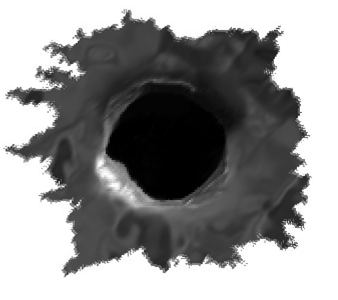
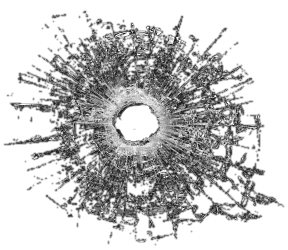
Deletes problematic bullethole pngs. Adds randomization to bulletholes. Refactors scenes to enable access to dddice client.

diff --git a/overlay/playbooks/gunslinger.ts b/overlay/playbooks/gunslinger.ts
@@ -3,14 +3,11 @@ import { OverlayScene } from "../scenes/overlay";
 
 
 export function loadGunslingerContent(scene: OverlayScene){
-    scene.load.bitmapFont("traffic-white","assets/fonts/bmfs/BostonTraffic/BostonTraffic.png", "assets/fonts/bmfs/BostonTraffic/BostonTraffic.xml");
-    scene.load.image("solidArrow", "assets/images/up-arrow.png");
-    scene.load.image("exchangeArrows", "assets/images/exchange.png");
 
-    scene.load.image("bh1", "assets/images/bh1.png");
     scene.load.image("bh2", "assets/images/bh2.png");
     scene.load.image("bh3", "assets/images/bh3.png");
     scene.load.image("bh4", "assets/images/bh4.png");
+    scene.load.image("bh5", "assets/images/bh5.png");
 
     scene.load.image("blastRune", "assets/images/blast.svg");
     scene.load.image("bleedRune", "assets/images/bleed.svg");
@@ -25,21 +22,29 @@ export function loadGunslingerContent(scene: OverlayScene){
 export function playGunshotsAnimation(scene: OverlayScene, shots: {rune: string, hit: boolean}[]){
 
     const rng = new Phaser.Math.RandomDataGenerator();
-    const bulletholes = ["bh1", "bh2", "bh3", "bh4"];
+    const bulletholes = ["bh2", "bh3", "bh4", "bh5"];
+    const bhScaleMap = new Map<string, number>();
+    bhScaleMap.set("bh5", 1);
+    bhScaleMap.set("bh4", 1);
     let delay = 0;
-    let delta = 200;
-    for (const shot of shots) {
-        console.log(shot);
+    let delta = 100;
+    let disappearDelay = 2000;
+    for (const shot of shots){
+        // console.log(x);
         scene.time.delayedCall(delay, () => {
-            // if (shot.hit){
+            if (shot.hit){
                 const bulletHole = bulletholes[Math.floor(Math.random()*bulletholes.length)];
                 console.log(bulletHole);
                 const randX = rng.between((scene.game.config.width as number) * 1/5, (scene.game.config.width as number) * 4/5);
                 const randY = rng.between((scene.game.config.height as number) * 1/5, (scene.game.config.height as number) * 4/5);
-                console.log([randX, randY]);
                 const tmp_bh = scene.add.sprite(randX, randY, bulletHole);
-                scene.time.delayedCall(2000, () => { tmp_bh.destroy()})        
-            // }
+                tmp_bh.setScale( bhScaleMap.get(bulletHole) || 3 );
+                tmp_bh.setAngle(Phaser.Math.Between(0,359));
+                
+                scene.time.delayedCall(disappearDelay, () => { 
+                    tmp_bh.destroy();
+                })        
+            }
         },[],scene);
         delay += delta;
     }

diff --git a/overlay/scenes/overlay.ts b/overlay/scenes/overlay.ts
@@ -3,8 +3,10 @@ import { room } from "../src/colyseus";
 import { EMessageTypes, IBaseMsg, IPlayAnimationMsg, IPlayGunshotAnimationMsg, IPlayRollSwapMsg } from "../../common/messageFormat";
 import { loadTacticianContent, playSwapAnimation } from "../playbooks/tactician";
 import { loadGunslingerContent, playGunshotsAnimation } from "../playbooks/gunslinger";
-import { DiceEvent, IApiResponse, IRoll, ThreeDDiceRollEvent } from "dddice-js";
+import { DiceEvent, IApiResponse, IRoll, ThreeDDice, ThreeDDiceRollEvent } from "dddice-js";
 export class OverlayScene extends Scene {
+
+    dddice: ThreeDDice;
 
 
     width: number;
@@ -27,6 +29,12 @@ export class OverlayScene extends Scene {
 
     constructor(){
         super({key: "overlay"})
+    }
+
+    init(diceClient: ThreeDDice){
+        this.dddice = diceClient;
+        console.log(this.dddice.apiKey);
+        console.log("overlay init fn");
     }
 
     preload(){
@@ -68,8 +76,12 @@ export class OverlayScene extends Scene {
         })
 
         room.onMessage(EMessageTypes.playGunshotAnimation, (msg: IPlayGunshotAnimationMsg) => {
-            console.log(msg);
-            playGunshotsAnimation(this, msg.shots);
+            // console.log(msg);
+            this.dddice.on(ThreeDDiceRollEvent.RollFinished,() => {
+                playGunshotsAnimation(this, msg.shots);
+                this.dddice.off(ThreeDDiceRollEvent.RollFinished);
+            })
+            
         })
 
         // demarcate background

diff --git a/overlay/src/init.ts b/overlay/src/init.ts
@@ -1,5 +1,6 @@
 import Phaser from "phaser";
 import { OverlayScene } from "../scenes/overlay";
+import { PreloadScene } from "../scenes/preload";
 import { initDDDice } from "./dddice";
 
 const config: Phaser.Types.Core.GameConfig = {
@@ -14,8 +15,8 @@ const config: Phaser.Types.Core.GameConfig = {
         // autoCenter: Phaser.Scale.CENTER_BOTH
     },
     parent: "game-container",
-    scene: [OverlayScene]
+    scene: [PreloadScene,OverlayScene]
 }
 
 const TheGame = new Phaser.Game(config);
-var dddice = initDDDice();
+// var dddice = initDDDice();

diff --git a/overlay/scenes/preload.ts b/overlay/scenes/preload.ts
@@ -1,0 +1,16 @@
+import { Scene } from "phaser";
+import { initDDDice } from "../src/dddice";
+
+
+export class PreloadScene extends Scene {
+
+    constructor(){
+        super({key: "preload"});
+    }
+
+    create(){
+        var dddice = initDDDice();
+        this.scene.start("overlay", dddice);
+    }
+
+}
